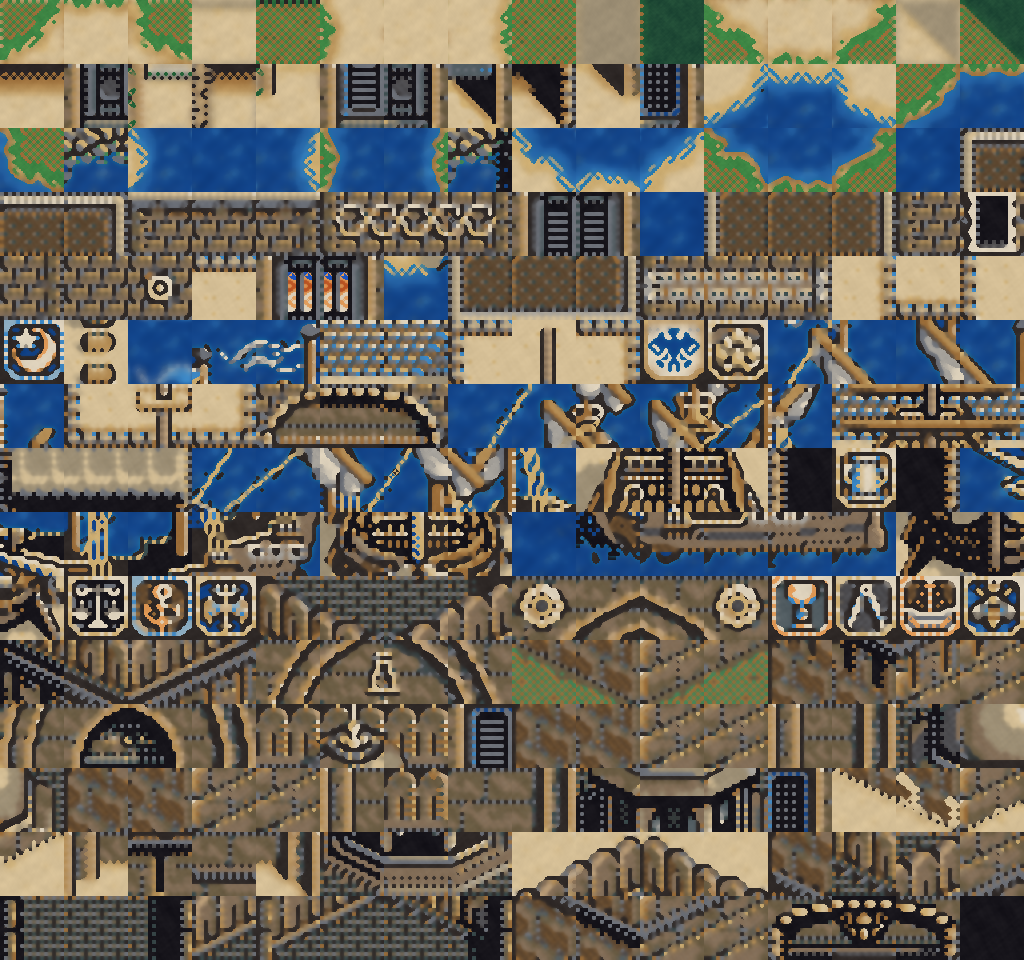
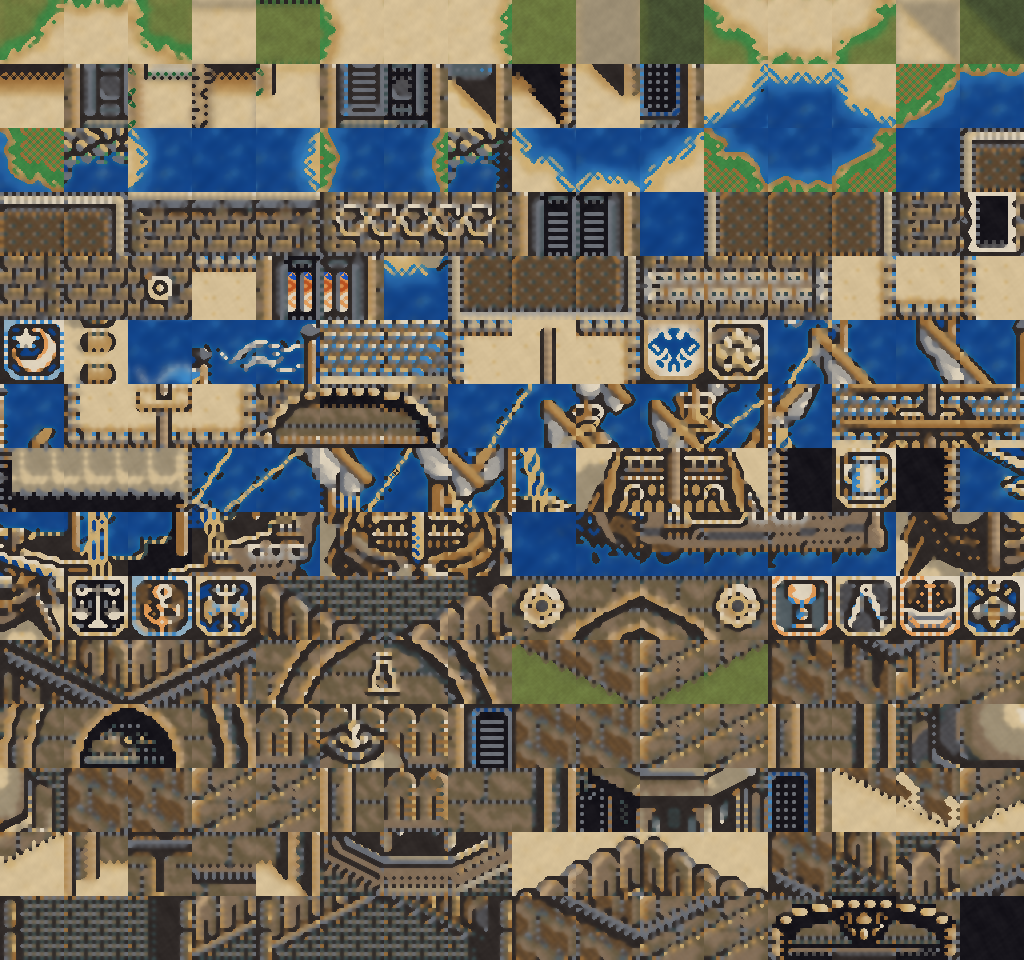
fix(art): fix India angled building grass shadow, roof voids, and doorway spikes

diff --git a/tools/build_hd_textures.py b/tools/build_hd_textures.py
@@ -378,6 +378,7 @@ def compute_portmap_context(meta: dict):
     tilesets = meta["tilesets"]
     water_adj = [set() for _ in range(len(tilesets))]
     open_edges = [{} for _ in range(len(tilesets))]
+    door_voids = [set() for _ in range(len(tilesets))]
 
     for s, bounds in enumerate(tilesets):
         _, p1, p2, _ = bounds
@@ -400,6 +401,8 @@ def compute_portmap_context(meta: dict):
                 continue
             if u.issubset({13, 14}):
                 walk_kind[tid] = ("grass", {13, 14})
+            elif u.issubset({10, 13, 14}) and 14 in u and int(np.sum(t == 14)) >= 60:
+                walk_kind[tid] = ("grass10", {10, 13, 14})
             elif u.issubset({10, 11, 15, 7}):
                 walk_kind[tid] = ("sand", {10, 11, 15})
             elif u.issubset({8, 11, 15}) and 11 in u:
@@ -410,6 +413,7 @@ def compute_portmap_context(meta: dict):
                 walk_kind[tid] = ("mixed", {10, 11, 13, 14, 15})
 
         adj_pairs = []  # (tid, ei, nb_tid)
+        below_nbs: dict[int, set[int]] = {}
         for pid, cs in enumerate(chipno):
             if cs != s or pid >= len(pm["ports"]):
                 continue
@@ -417,6 +421,8 @@ def compute_portmap_context(meta: dict):
             for r in range(96):
                 for c in range(96):
                     tid = grid[r * 96 + c]
+                    if r + 1 < 96:
+                        below_nbs.setdefault(tid, set()).add(grid[(r + 1) * 96 + c])
                     if tid < p1:
                         continue
                     for ei, (dr, dc) in enumerate(((-1, 0), (0, 1), (1, 0), (0, -1))):
@@ -432,6 +438,8 @@ def compute_portmap_context(meta: dict):
                             nb_edge = set((nbt[15, :] if ei == 0 else (nbt[:, 0] if ei == 1 else (nbt[0, :] if ei == 2 else nbt[:, 15]))).tolist())
                             if k == "grass":
                                 allowed = {13, 14}
+                            elif k == "grass10":
+                                allowed = {10, 13, 14}
                             elif k == "sand":
                                 allowed = {10, 11, 15}
                             elif k == "dither_sand":
@@ -442,12 +450,22 @@ def compute_portmap_context(meta: dict):
                                 allowed = set()
                                 if {13, 14}.issubset(nb_edge):
                                     allowed |= {13, 14}
+                                elif 14 in nb_edge and 10 in nb_edge:
+                                    allowed |= {10, 13, 14}
                                 if {11, 15}.issubset(nb_edge):
                                     allowed |= {10, 11, 15}
                             if allowed:
                                 open_edges[s].setdefault(tid, {}).setdefault(ei, set()).update(allowed)
                         elif nb >= p2 and nb not in water_adj[s] and tid not in WALL_PLAQUE_SKIP_SAND.get(s, set()) and nb not in WALL_PLAQUE_SKIP_SAND.get(s, set()):
                             adj_pairs.append((tid, ei, nb))
+
+        for tid in range(p2, (idx.shape[0] // 16) * cols):
+            t = get_t(tid)
+            if int(np.sum(t == 0)) < 48:
+                continue
+            bot0 = int(np.sum(t[15, :] == 0))
+            if bot0 >= 10 or any(b < p2 for b in below_nbs.get(tid, ())):
+                door_voids[s].add(tid)
 
         # 多轮传播开放地面边界（例如旱坞船中间的桅杆格 103/115 虽不直接邻接 tile 4，但两侧与 102/104 开放沙地相通）
         unique_adj = set(adj_pairs)
@@ -472,7 +490,7 @@ def compute_portmap_context(meta: dict):
                         changed = True
             if not changed:
                 break
-    return water_adj, open_edges
+    return water_adj, open_edges, door_voids
 
 # 排除纯米白石膏墙体/招牌图块被误判为沙地（教堂顶十字架 s0:205/s1:53/s3:88 与清真寺尖塔 s2:155..178 均保留外围沙地剥离）
 WALL_PLAQUE_SKIP_SAND = {
@@ -591,10 +609,19 @@ def extract_outer_ground(tile_idx: np.ndarray, set_idx: int, t_id: int, p2: int,
                     q.append((ny, nx))
         return loc, all_a
 
-    # 1) 外围草坪 ({13, 14})：不会出现在纯棕瓦屋顶里（排除无14且10占比过高的棕瓦）
+    # 1) 外围草坪 ({13, 14} 与热带/印度 {10, 13, 14} 棋盘草地)：仅允许紧邻 14 且不紧邻黑边 0 的 10 参与连通，绝不侵蚀棕瓦墙体
     mg, ag = flood_group({13, 14})
     if int(np.sum(mg)) >= 12 and {13, 14}.issubset(ag) and int(np.sum(mg & (tile_idx == 14))) >= 3:
         outer_grass |= mg
+    if {10, 14}.issubset(ag):
+        p14 = np.pad((tile_idx == 14).astype(np.int32), ((1, 1), (1, 1)), mode="constant", constant_values=0)
+        s14 = p14[:-2, 1:-1] + p14[2:, 1:-1] + p14[1:-1, :-2] + p14[1:-1, 2:]
+        p0 = np.pad((tile_idx == 0).astype(np.int32), ((1, 1), (1, 1)), mode="constant", constant_values=0)
+        s0 = p0[:-2, 1:-1] + p0[2:, 1:-1] + p0[1:-1, :-2] + p0[1:-1, 2:]
+        g10_allow = (tile_idx == 10) & (s14 >= 1) & (s0 == 0)
+        mg10, _ = flood_group({13, 14}, allow_mask=g10_allow)
+        if int(np.sum(mg10)) >= 12 and int(np.sum(mg10 & (tile_idx == 14))) >= 6:
+            outer_grass |= mg10
 
     if t_id in WALL_PLAQUE_SKIP_SAND.get(set_idx, set()):
         return outer_sand, outer_grass
@@ -624,7 +651,7 @@ def extract_outer_ground(tile_idx: np.ndarray, set_idx: int, t_id: int, p2: int,
 
     return outer_sand, outer_grass
 
-def process_portchip_sheet(set_idx: int, p1: int, p2: int, p3: int, mats, water_adj_set: set, open_edge_map: dict):
+def process_portchip_sheet(set_idx: int, p1: int, p2: int, p3: int, mats, water_adj_set: set, open_edge_map: dict, door_void_set: set):
     src_path = os.path.join(ART_SHEETS, f"portchip_{set_idx}.png")
     rgba = np.array(Image.open(src_path).convert("RGBA"))
     idx_all = extract_indices(rgba, prefer_map=True)
@@ -638,6 +665,18 @@ def process_portchip_sheet(set_idx: int, p1: int, p2: int, p3: int, mats, water_
     ref_r, ref_c = divmod(ref_tid, cols)
     ref_tile_idx = idx_all[ref_r * tile_sz:(ref_r + 1) * tile_sz, ref_c * tile_sz:(ref_c + 1) * tile_sz]
     stone_ref = np.mean(MODERN_GROUND_PAL[ref_tile_idx], axis=(0, 1)).astype(np.float32)
+
+    # 每个图集自身的纯草坪基准色（如 set 2/6 热带草坪为 {10,14} 橄榄绿，其余为 {13,14} 翠绿）
+    grass_ref = (MODERN_GROUND_PAL[13] * 0.48 + MODERN_GROUND_PAL[14] * 0.52).astype(np.float32)
+    best_g14 = 0
+    for gtid in range(p1):
+        gr, gc = divmod(gtid, cols)
+        gt = idx_all[gr * tile_sz:(gr + 1) * tile_sz, gc * tile_sz:(gc + 1) * tile_sz]
+        gu = set(np.unique(gt).tolist())
+        g14 = int(np.sum(gt == 14))
+        if gu.issubset({10, 13, 14}) and g14 > best_g14:
+            best_g14 = g14
+            grass_ref = np.mean(MODERN_GROUND_PAL[gt], axis=(0, 1)).astype(np.float32)
 
     alb_out = np.zeros((rows * hd_tile, cols * hd_tile, 4), dtype=np.uint8)
     nrm_out = np.zeros((rows * hd_tile, cols * hd_tile, 4), dtype=np.uint8)
@@ -746,12 +785,14 @@ def process_portchip_sheet(set_idx: int, p1: int, p2: int, p3: int, mats, water_
                 # 原版建筑左侧投影格：保持平地高程 (elev=0)，避免突出墙体与二次阴影，同时保留与沙地影格 (9/11) 一致的柔和地面暗影
                 if is_grass_shadow_tile:
                     sem[:, :] = 3
-                    if 10 in uniq_idx:
-                        sem[tile_idx == 10] = 2
                 else:
                     sem[:, :] = 2
             elif is_walk and not is_road_curb:
-                is_grass = (tile_idx == 13) | (tile_idx == 14)
+                p14w = np.pad((tile_idx == 14).astype(np.int32), ((1, 1), (1, 1)), mode="wrap" if t_id < p1 else "edge")
+                s14w = p14w[:-2, 1:-1] + p14w[2:, 1:-1] + p14w[1:-1, :-2] + p14w[1:-1, 2:]
+                p0w = np.pad((tile_idx == 0).astype(np.int32), ((1, 1), (1, 1)), mode="wrap" if t_id < p1 else "edge")
+                s0w = p0w[:-2, 1:-1] + p0w[2:, 1:-1] + p0w[1:-1, :-2] + p0w[1:-1, 2:]
+                is_grass = (tile_idx == 13) | (tile_idx == 14) | ((tile_idx == 10) & (s14w >= 2) & (s0w == 0))
                 is_sand = ((tile_idx == 10) | (tile_idx == 11) | (tile_idx == 15) | (tile_idx == 8)) & ~is_water & ~is_grass
                 sem[is_sand] = 2
                 sem[is_grass] = 3
@@ -786,12 +827,16 @@ def process_portchip_sheet(set_idx: int, p1: int, p2: int, p3: int, mats, water_
             strict_pairs = None if (is_walk or is_shore_tile or is_flat_beach or is_tree_tile) else STRONG_ARCH_CHECKER_PAIRS
             if is_flat_beach:
                 pairs = pairs | {(8, 11), (11, 8), (8, 10), (10, 8)}
+            if is_walk and np.any((tile_idx == 14)) and np.any(sem == 3):
+                pairs = pairs | {(10, 14), (14, 10), (10, 13), (13, 10)}
             tile_pal = MODERN_GROUND_PAL if (is_walk or is_tree_tile or is_shore_tile or is_flat_beach or is_ground_stair) else MODERN_ARCH_PAL
             base_16 = dedither_tile_rgb(tile_idx, tile_pal, pairs, strict_pairs=strict_pairs, is_water=is_water, wrap_edges=(is_walk and t_id < p1 and not is_ground_shadow_tile and not is_road_curb))
             if is_flat_beach and set_idx == 1 and np.any((tile_idx == 8) & (sem == 2)):
                 base_16[(tile_idx == 8) & (sem == 2)] = stone_ref
             if not (is_walk or is_tree_tile or is_shore_tile or is_flat_beach) and np.any(outer_bg):
                 ext_pairs = GROUND_DITHER_PAIRS | {(8, 11), (11, 8), (8, 10), (10, 8)}
+                if np.any(outer_grass):
+                    ext_pairs = ext_pairs | {(10, 14), (14, 10), (10, 13), (13, 10)}
                 base_ext = dedither_tile_rgb(tile_idx, MODERN_GROUND_PAL, ext_pairs, is_water=is_water, wrap_edges=False)
                 if set_idx in (0, 2, 3, 4, 6) and np.any(outer_sand & (tile_idx == 8)):
                     # 清除旱坞船体 (set 0/2/3)、椰树等左侧原版 1993 {8,11} 灰格假影，由 WebGL2 实时光线统一投射斜影
@@ -803,9 +848,11 @@ def process_portchip_sheet(set_idx: int, p1: int, p2: int, p3: int, mats, water_
                 base_16 = np.where(outer_bg[:, :, None], base_ext, base_16)
             if is_ground_shadow_tile:
                 if is_grass_shadow_tile:
-                    sunlit_grass = MODERN_GROUND_PAL[13] * 0.48 + MODERN_GROUND_PAL[14] * 0.52
-                    fill_col = sunlit_grass * 0.56 + np.array([3.0, 8.0, 18.0], dtype=np.float32)
+                    fill_col = grass_ref * 0.62 + np.array([3.0, 6.0, 12.0], dtype=np.float32)
                     base_16[tile_idx == 0] = fill_col
+                    base_16[tile_idx == 13] = grass_ref * 0.85
+                    if 10 in uniq_idx:
+                        base_16[tile_idx == 10] = grass_ref * 0.72 + np.array([2.0, 4.0, 8.0], dtype=np.float32)
                 elif is_stone_shadow_tile:
                     # 将石砖暗影格 (set 1: 3/8/17, set 4: 11/16, set 5: 16/38/39/41/45) 的冷灰 {0, 8} 棋盘转为与对应图集石砖地面一致的柔和暗影
                     base_16[tile_idx == 0] = stone_ref * 0.66 + np.array([4.0, 7.0, 15.0], dtype=np.float32)
@@ -859,9 +906,9 @@ def process_portchip_sheet(set_idx: int, p1: int, p2: int, p3: int, mats, water_
                     num = gaussian_filter(up64[:, :, ch] * m, sigma=sigma, mode=mode)
                     final64[:, :, ch] = np.where(m > 0.5, up64[:, :, ch] * (1.0 - mix) + (num / denom) * mix, final64[:, :, ch])
 
-            # 门洞/船舱真实空腔 (void_64) 保持深邃暗影，其余建筑实体 (sem64 == 4 | sem64 == 0) 做双边保边绘面平滑
+            # 门洞/门廊真实空腔 (void_64) 保持深邃暗影，实体屋顶/檐角/塔楼暗面不挖空高程
             void_16 = np.zeros_like(tile_idx, dtype=bool)
-            if not is_ground_shadow_tile and not pure_water_ripple_tile and c0_cnt >= 48:
+            if t_id in door_void_set and not is_ground_shadow_tile and not pure_water_ripple_tile and c0_cnt >= 48:
                 lbl_v, n_v = label(tile_idx == 0)
                 for vid in range(1, n_v + 1):
                     vm = lbl_v == vid
@@ -950,6 +997,13 @@ def process_portchip_sheet(set_idx: int, p1: int, p2: int, p3: int, mats, water_
                 tile_elev = gaussian_filter(base_e.astype(np.float32), sigma=1.4, mode="nearest")
             else:
                 caster_raw = ((sem64 == 4) | (sem64 == 0)) & ~void_64
+                if np.any(caster_raw):
+                    min_island = 80 if t_id in door_void_set else 24
+                    lbl_c, n_c = label(caster_raw)
+                    for cid in range(1, n_c + 1):
+                        cm = lbl_c == cid
+                        if int(np.sum(cm)) < min_island:
+                            caster_raw[cm] = False
                 solid_m = edge_close(caster_raw, 4) & (sem64 != 1) & ~void_64
                 base_e = np.where(solid_m, 0.85, 0.0)
                 tile_elev = gaussian_filter(base_e.astype(np.float32), sigma=1.4, mode="nearest")
@@ -1043,11 +1097,11 @@ def process_chars_sheet():
 
 def main():
     meta = json.load(open(PORTCHIP_JSON, "r", encoding="utf-8"))
-    water_adj, open_edges = compute_portmap_context(meta)
+    water_adj, open_edges, door_voids = compute_portmap_context(meta)
     mats = make_tactile_materials(64)
     for s, bounds in enumerate(meta["tilesets"]):
         _, p1, p2, p3 = bounds
-        out_p = process_portchip_sheet(s, p1, p2, p3, mats, water_adj[s], open_edges[s])
+        out_p = process_portchip_sheet(s, p1, p2, p3, mats, water_adj[s], open_edges[s], door_voids[s])
         print(f"Generated PBR set for portchip_{s}: {os.path.relpath(out_p, ROOT)} (+ _nrm / _mat)")
     out_c = process_chars_sheet()
     print(f"Generated PBR set for chars: {os.path.relpath(out_c, ROOT)} (+ _nrm)")
